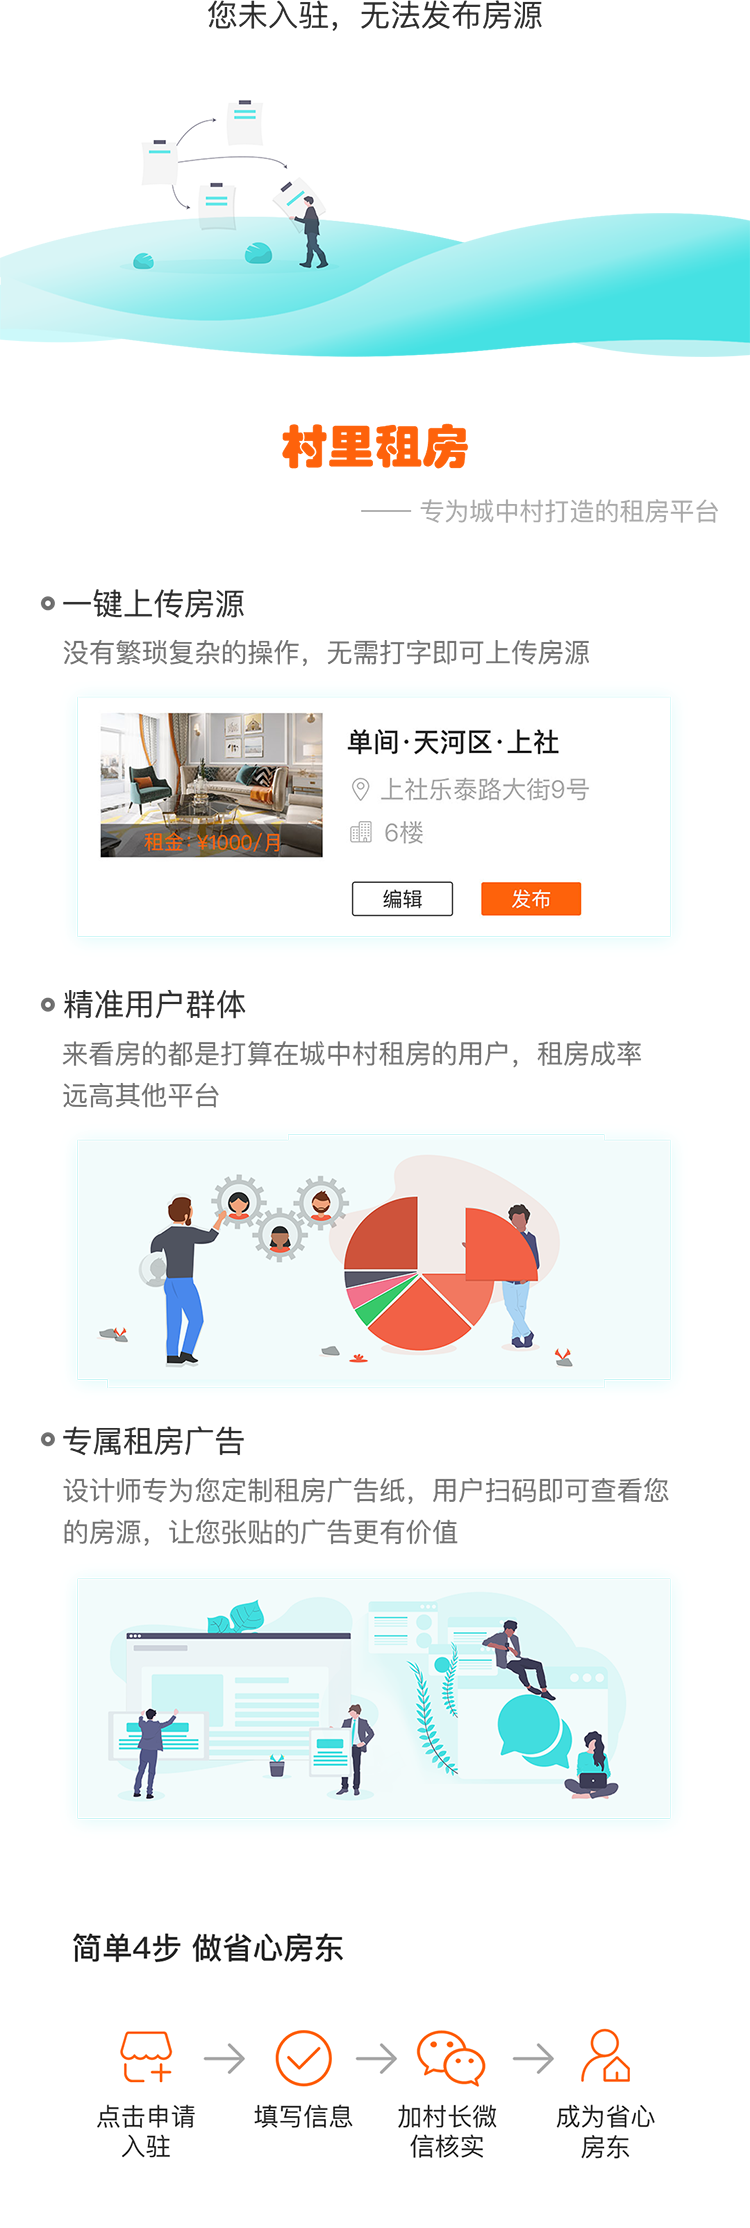
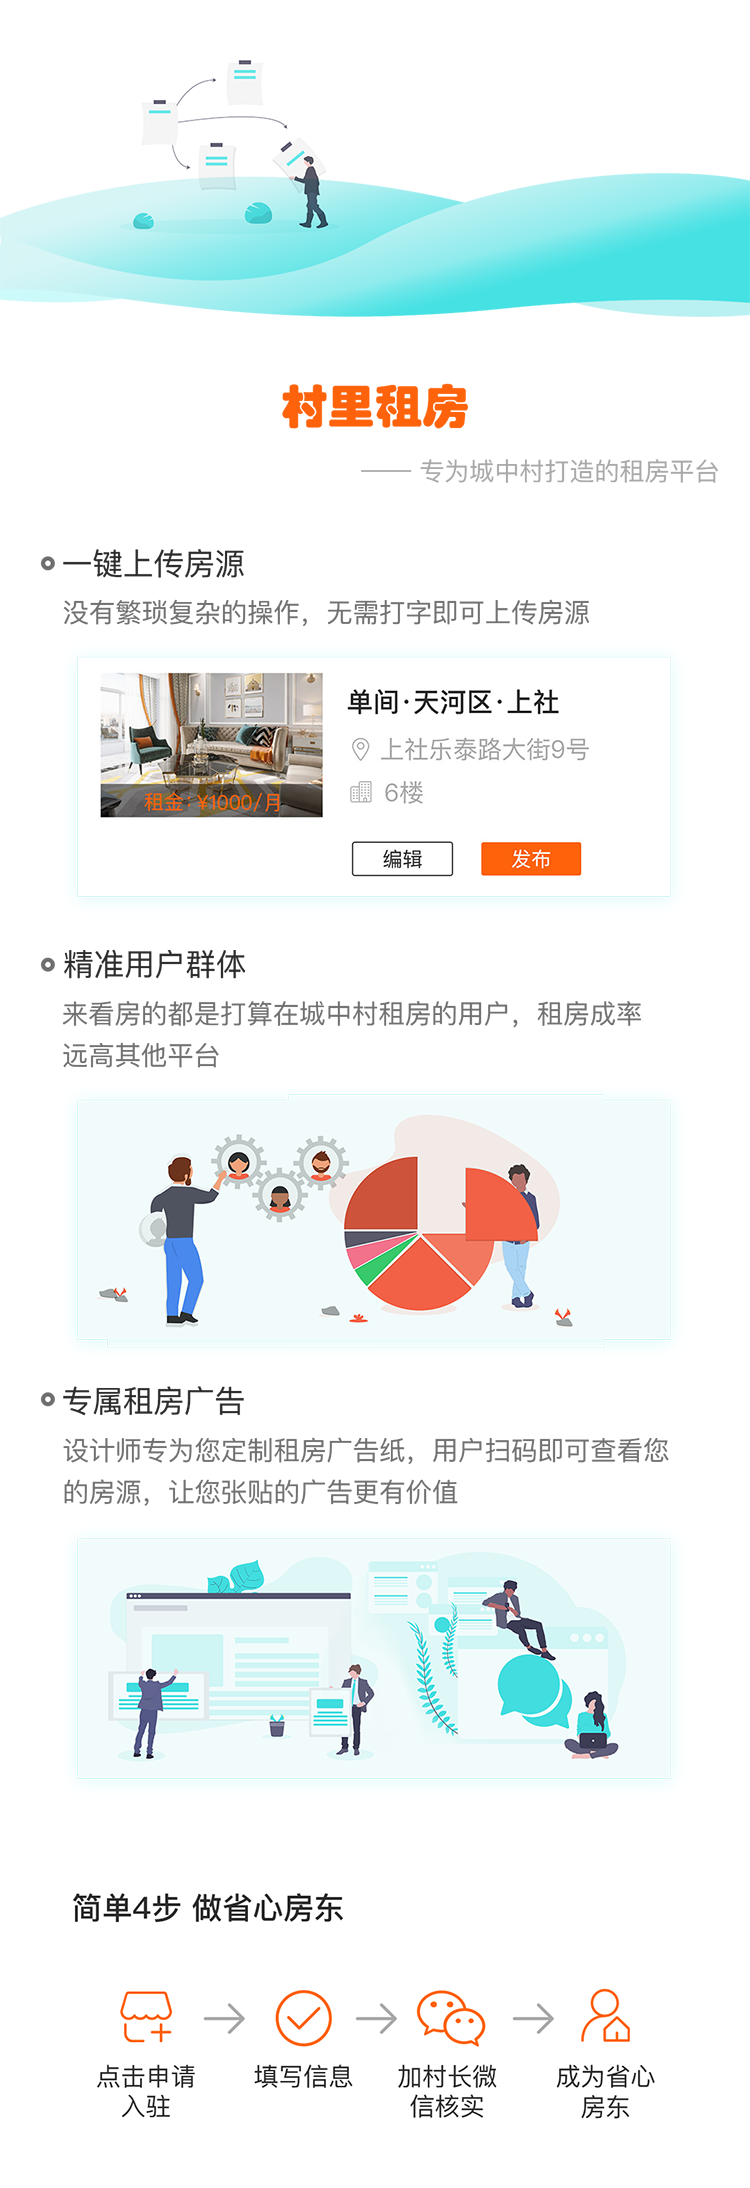
提交

diff --git a/api/index.js b/api/index.js
@@ -1,96 +1,96 @@
-import ajax from '../common/ajax.js'
-import store from '../store/index.js'
+import ajax from '../common/ajax.js';
+import store from '../store/index.js';
 
 export default {
     login() {
         return new Promise((resolve, reject) => {
             if (store.state.code) {
-                resolve(store.state.code)
+                resolve(store.state.code);
             } else {
                 uni.login({
                     success(res) {
-                        store.commit('setCode', res.code)
-                        resolve(res.code)
+                        store.commit('setCode', res.code);
+                        resolve(res.code);
                     }
-                })
+                });
             }
-        })
+        });
     },
     getToken(data = {}) {
         return ajax('/api/user/checkLogin', data, { noToken: true }).then(res => {
             if (res && res.data && res.data.userinfo) {
-                uni.setStorageSync('tk', res.data.userinfo.token)
-                store.commit('setUserInfo', res.data.userinfo)
+                uni.setStorageSync('tk', res.data.userinfo.token);
+                store.commit('setUserInfo', res.data.userinfo);
             }
-            return res
-        })
+            return res;
+        });
     },
     // bindMobile(data = {}) {
     //     return ajax('/api/user/decryptData', data, { type: 'post' })
     // },
     getQiniuToken(data = {}) {
-        return ajax('/api/upload/getUploadToken', data, { noToken: true, noAlert: true })
+        return ajax('/api/upload/getUploadToken', data, { noToken: true, noAlert: true });
     },
     signUp(data = {}) {
-        return ajax('/api/user/wxappRegister', data, { type: 'post' })
+        return ajax('/api/user/wxappRegister', data, { type: 'post' });
     },
-    getUserInfo(data = {}) {
-        if (store.state.userInfo) {
+    getUserInfo(data = {}, noCache = false) {
+        if (!noCache && store.state.userInfo) {
             return Promise.resolve({
                 data: store.state.userInfo
-            })
+            });
         }
         return ajax('/api/user/getRegisterInfo', data).then(res => {
             if (res && res.data) {
-                uni.setStorageSync('tk', res.data.token)
-                store.commit('setUserInfo', res.data)
+                uni.setStorageSync('tk', res.data.token);
+                store.commit('setUserInfo', res.data);
             }
-            return res
-        })
+            return res;
+        });
     },
     getAddrList(data = {}) {
-        return ajax('/api/area/getList', data, { noToken: true })
+        return ajax('/api/area/getList', data, { noToken: true });
     },
     getHouseList(data = {}) {
-        return ajax('/api/house_resource/getList', data, { noToken: true })
+        return ajax('/api/house_resource/getList', data, { noToken: true });
     },
     addHouse(data = {}) {
-        return ajax('/api/house_resource/wxappAdd', data, { type: 'post' })
+        return ajax('/api/house_resource/wxappAdd', data, { type: 'post' });
     },
     editHouse(data = {}) {
-        return ajax('/api/house_resource/wxappEdit', data, { type: 'post' })
+        return ajax('/api/house_resource/wxappEdit', data, { type: 'post' });
     },
     getHouse(data = {}) {
-        return ajax('/api/house_resource/getDetail', data, { noToken: true })
+        return ajax('/api/house_resource/getDetail', data, { noToken: true });
     },
     getLandlordList(data = {}) {
-        return ajax('/api/landlord/getList', data, { noToken: true })
+        return ajax('/api/landlord/getList', data, { noToken: true });
     },
     getLandlordDetail(data = {}) {
-        return ajax('/api/landlord/getDetail', data, { noToken: true })
+        return ajax('/api/landlord/getDetail', data, { noToken: true });
     },
     addLandlord(data = {}) {
-        return ajax('/api/landlord/wxappAdd', data, { type: 'post' })
+        return ajax('/api/landlord/wxappAdd', data, { type: 'post' });
     },
     editLoandlord(data = {}) {
-        return ajax('/api/landlord/edit', data, { type: 'post' })
+        return ajax('/api/landlord/edit', data, { type: 'post' });
     },
     collect(data = {}) {
-        return ajax('/api/user/collectionAdd', data, { type: 'post' })
+        return ajax('/api/user/collectionAdd', data, { type: 'post' });
     },
     getMyCollection(data = {}) {
-        return ajax('/api/user/collectionGetList', data)
+        return ajax('/api/user/collectionGetList', data);
     },
     getMyHouse(data = {}) {
-        return ajax('/api/user/houseResourceGetlist', data)
+        return ajax('/api/user/houseResourceGetlist', data);
     },
     getConfig(data = {}) {
-        return ajax('/api/keyvalue/getAllList', data, { noToken: true })
+        return ajax('/api/keyvalue/getAllList', data, { noToken: true });
     },
     uploadImg(data = {}) {
-        return ajax('/api/upload/add', data, { type: 'post', upload: true, noToken: true })
+        return ajax('/api/upload/add', data, { type: 'post', upload: true, noToken: true });
     },
     getQRCode(data = {}) {
-        return ajax('/api/Wxapp/Wxapp/getWxcodeUnlimit', data, { type: 'post' })
+        return ajax('/api/Wxapp/Wxapp/getWxcodeUnlimit', data, { type: 'post' });
     }
-}
+};

diff --git a/common/ajax.js b/common/ajax.js
@@ -1,68 +1,68 @@
-import store from '../store/index.js'
+import store from '../store/index.js';
 
 const ajax = async (path, data, options = {}) => {
-    const urlPrefix = 'https://house.zhiqiang.ink'
-    const url = urlPrefix + path
-    const token = uni.getStorageSync('tk')
-    options.type = options.type || 'get'
+    const urlPrefix = 'https://house.zhiqiang.ink';
+    const url = urlPrefix + path;
+    const token = uni.getStorageSync('tk');
+    options.type = options.type || 'get';
     options.loading &&
         uni.showLoading({
             title: '加载中……',
             mask: options.mask
-        })
+        });
     if (!options.noToken && !token) {
         uni.showToast({
             title: '请先登录小程序',
             icon: 'none'
-        })
+        });
         return Promise.reject({
             msg: '未登录'
-        })
+        });
     }
 
     const header = {
         'content-type': 'application/json'
-    }
+    };
     if (!options.noToken) {
-        header['token'] = token
+        header['token'] = token;
     }
     const success = res => {
-        console.log(path, res)
-        options.loading && uni.hideLoading()
+        options.loading && uni.hideLoading();
         if (res.length && res.length === 2) {
-            res = res[1]
+            res = res[1];
         }
+        console.log(path, res);
 
         if (res && res.statusCode == 200) {
-            let data = res.data
+            let data = res.data;
             if (data.code && data.code === 1) {
                 if (data.data && data.data.message && data.data.message === '请求Token失败') {
                     uni.showToast({
                         title: '请重新登录',
                         icon: 'none'
-                    })
+                    });
                 }
-                return Promise.resolve(data)
+                return Promise.resolve(data);
             } else {
-                !options.noAlert && uni.showToast({ title: data.msg, icon: 'none' })
-                return Promise.reject(data)
+                !options.noAlert && uni.showToast({ title: data.msg, icon: 'none' });
+                return Promise.reject(data);
             }
         } else {
-            !options.noAlert && uni.showToast({ title: res.statusCode, icon: 'none' })
-            return Promise.reject({ code: res.statusCode, msg: res.errMsg })
+            !options.noAlert && uni.showToast({ title: res.statusCode, icon: 'none' });
+            return Promise.reject({ code: res.statusCode, msg: res.errMsg });
         }
-    }
+    };
     const fail = e => {
-        console.log(path, e)
-        options.loading && uni.hideLoading()
+        console.log(path, e);
+        options.loading && uni.hideLoading();
         !options.noAlert &&
             uni.showToast({
                 title: '网络异常',
                 icon: 'none'
-            })
-        if (e && e.errMsg === 'request:fail abort') return
-        return Promise.reject(e)
-    }
+            });
+        if (e && e.errMsg === 'request:fail abort') return;
+        return Promise.reject(e);
+    };
     // const obj = {
     //     url,
     //     method: options.type,
@@ -78,8 +78,8 @@ const ajax = async (path, data, options = {}) => {
         method: options.type,
         data,
         header
-    }
-    return uni.request(obj).then(success, fail)
-}
+    };
+    return uni.request(obj).then(success, fail);
+};
 
-export default ajax
+export default ajax;

diff --git a/pages/publish/index.vue b/pages/publish/index.vue
@@ -1,7 +1,8 @@
 <template>
     <view class="content content_bg_ff">
         <view class="not_landlord" v-if="step === 2">
-            <view class="bd m_flex">
+            <view class="bd">
+                <view>您未入驻，无法发布房源</view>
                 <image class="m_flex_item" src="/static/image/publish/intro.png" mode="aspectFit"></image>
             </view>
             <view class="fd">
@@ -72,7 +73,7 @@ export default {
     },
     data() {
         return {
-            step: 2,
+            step: 0,
             temp: {
                 contact_mobile: "",
                 wechat_number: ""
@@ -82,11 +83,7 @@ export default {
     onShow() {
         const tk = uni.getStorageSync("tk");
         if (tk) {
-            if (!this.userInfo) {
-                this.getInfo();
-            } else {
-                this.step = this.userInfo.is_landlord;
-            }
+            this.getInfo();
         } else {
             this.login();
         }
@@ -98,8 +95,8 @@ export default {
             });
         },
         getInfo() {
-            this.$request.getUserInfo().then(res => {
-                this.step = res.data.is_landlord;
+            this.$request.getUserInfo({}, true).then(res => {
+                this.step = +res.data.is_landlord;
             });
         },
         getUserInfo(e) {
@@ -126,6 +123,8 @@ export default {
         width: 750upx;
         height: 2228upx;
         padding-top: 90upx;
+        text-align: center;
+        line-height: 40upx;
     }
 
     .fd {

diff --git a/pages/me/me.vue b/pages/me/me.vue
@@ -47,6 +47,9 @@
                 <view class="cell_hd">联系村长</view>
                 <button class="cell_fd m_button plain" open-type="contact">全能村长，24小时在线</button>
             </view>
+            <view class="cell m_flex_justify m_flex_middle" @tap="clear">
+                <view class="cell_hd">清楚授权</view>
+            </view>
         </view>
         <v-auth ref="auth"></v-auth>
         <v-modal ref="modal">
@@ -104,9 +107,7 @@ export default {
             });
         },
         getInfo() {
-            this.$request.getUserInfo().then(res => {
-                console.log(res);
-            });
+            this.$request.getUserInfo();
         },
         getUserInfo(e) {
             this.$refs.auth.getUserInfo(e);
@@ -122,6 +123,20 @@ export default {
         },
         to(url) {
             this.userInfo ? this.goPage(url) : this.getUserInfo();
+        },
+        clear() {
+            try {
+                uni.clearStorageSync();
+                uni.reLaunch({
+                    url: "/pages/me/me"
+                });
+            } catch (e) {
+                //TODO handle the exception
+                uni.showToast({
+                    title: "清楚授权失败",
+                    icon: "none"
+                });
+            }
         }
     }
 };

diff --git a/pages/publish/settled.vue b/pages/publish/settled.vue
@@ -90,9 +90,9 @@ export default {
         addr() {
             return (
                 (this.form.position_province || "") +
-                    (this.form.position_city || "") +
-                    (this.form.postion_district || "") +
-                    (this.form.postion_street || "") || "广州市"
+                (this.form.position_city || "") +
+                (this.form.postion_district || "") +
+                (this.form.postion_street || "")
             );
         }
     },
@@ -210,6 +210,7 @@ export default {
 }
 .addr {
     &_picker {
+        height: 100%;
         padding-right: 30upx;
     }
     &_item {

diff --git a/pages/publish/publish_succ.vue b/pages/publish/publish_succ.vue
@@ -79,8 +79,9 @@ export default {
                     width: "350"
                 })
                 .then(res => {
-                    console.log(res);
-                    this.qrcode = res.data;
+                    if (res && res.data) {
+                        this.qrcode = res.data;
+                    }
                 });
         },
         getAvatar() {
